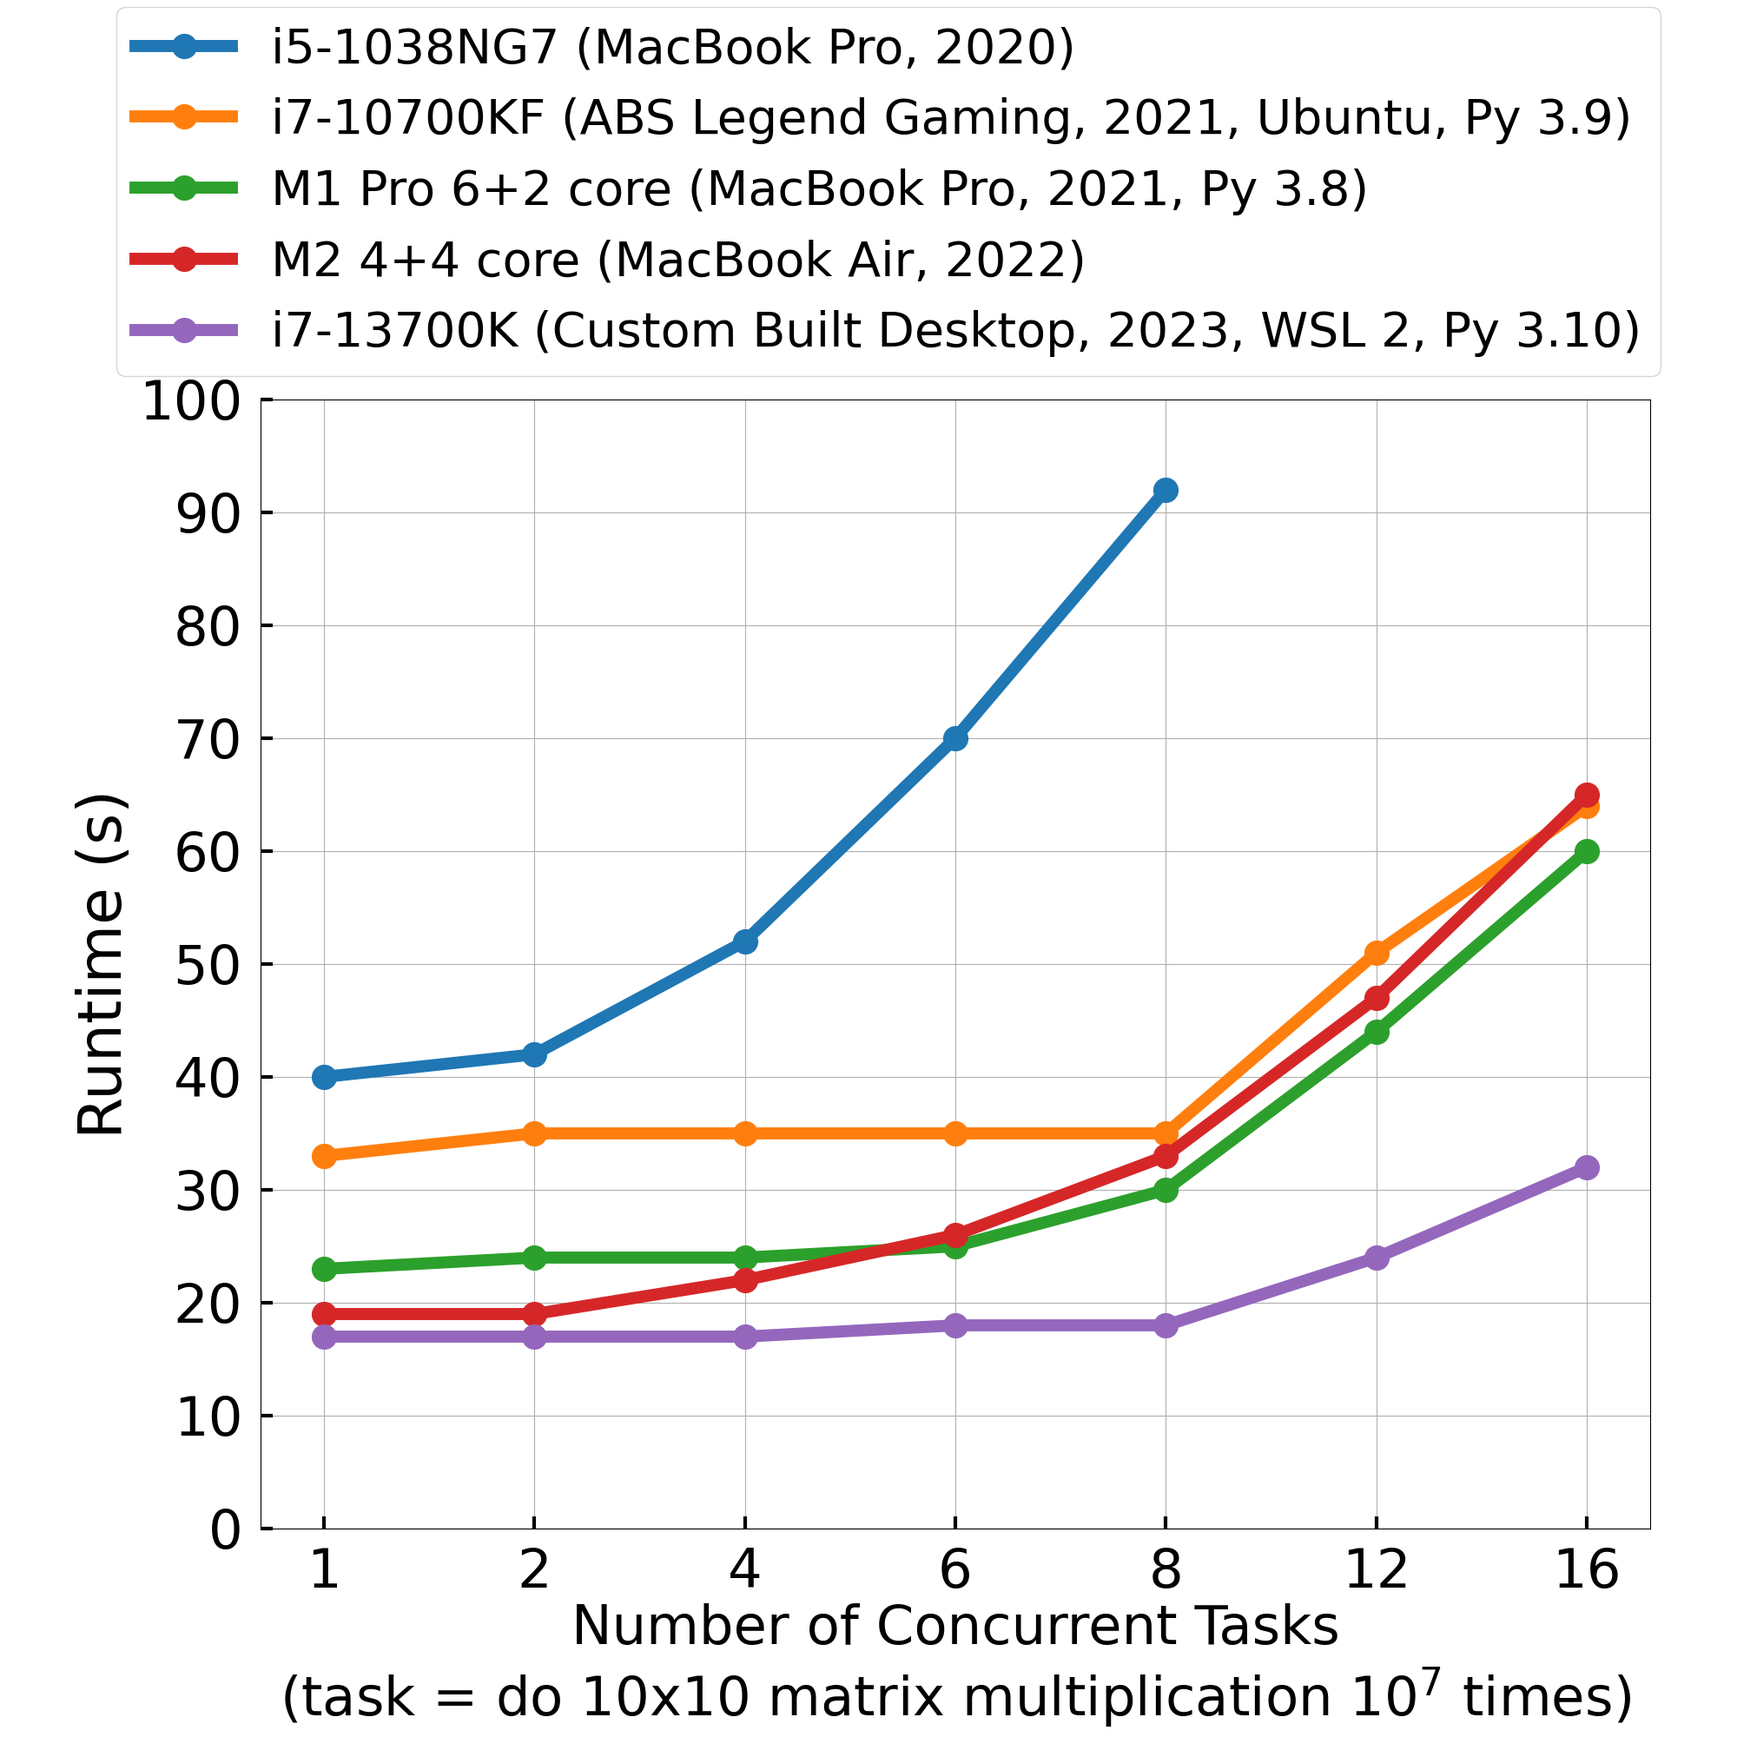
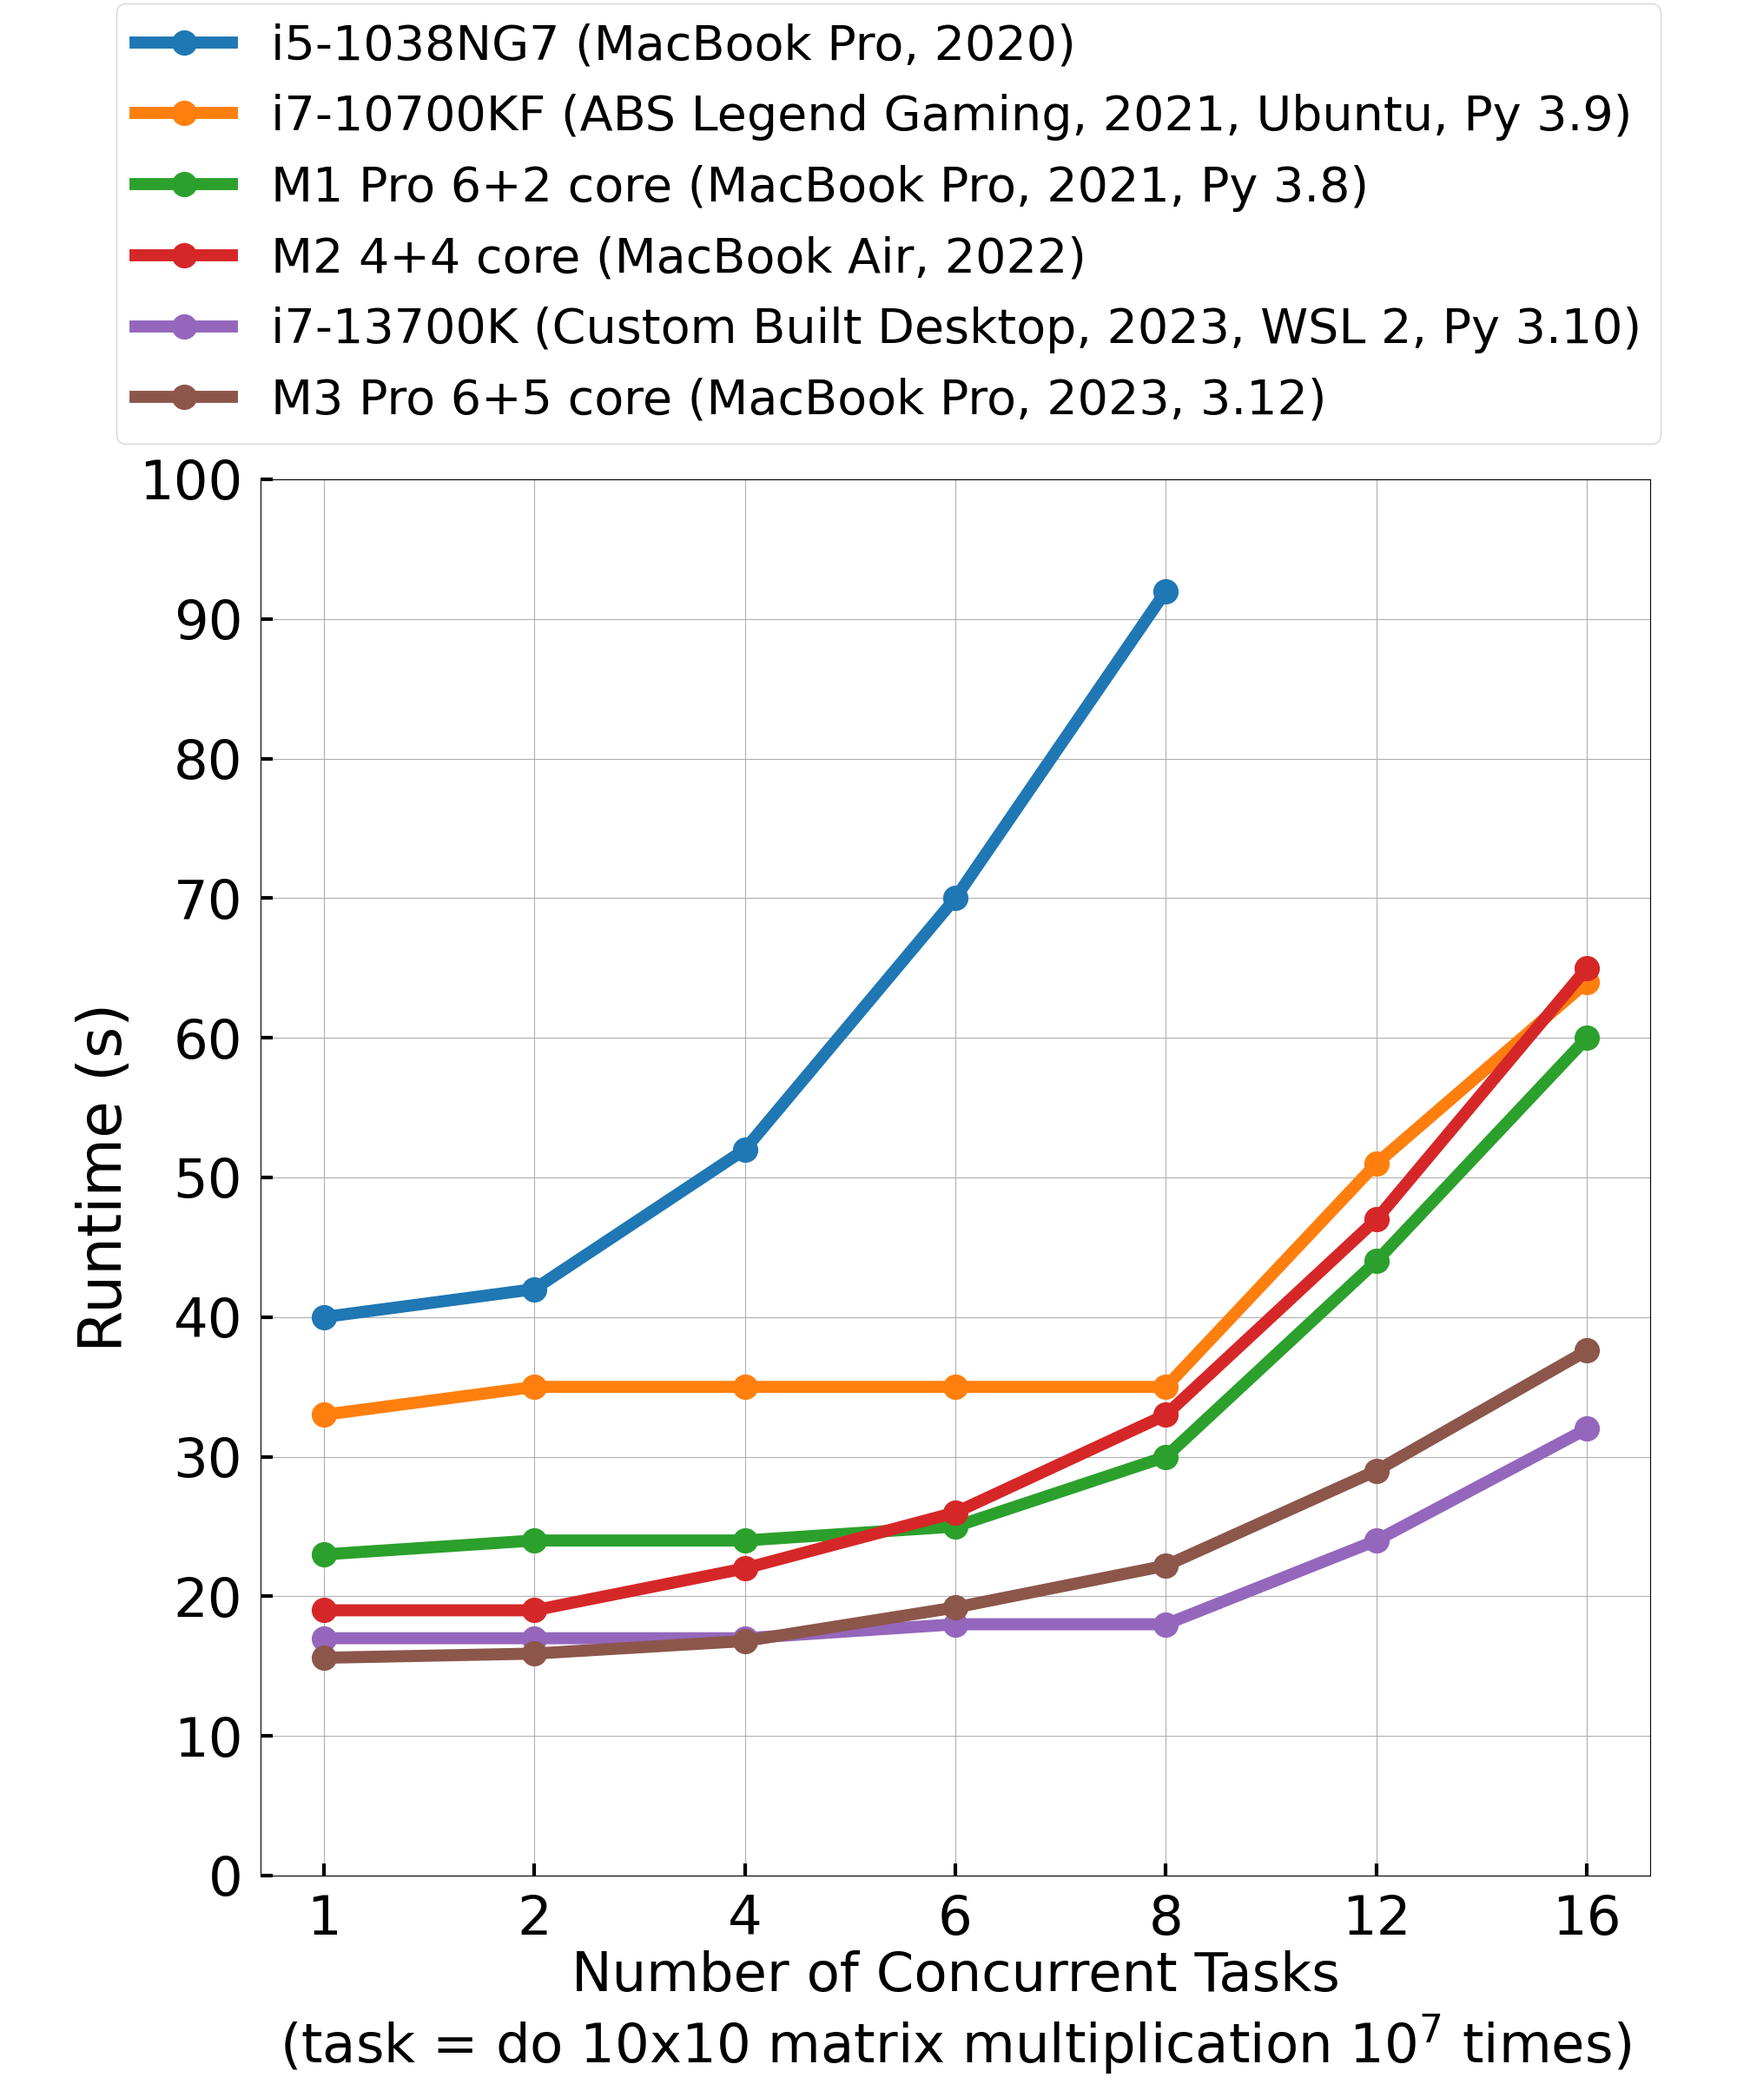
update plots

diff --git a/plot.py b/plot.py
@@ -2,24 +2,26 @@ import matplotlib.pyplot as plt
 import numpy as np
 
 def plot():
-    X  = [1,  2,  4,    6,    8,    12,   16]
-    y1 = [40, 42, 52,   70,   92]                # i5-1038NG7
-    y2 = [44, 44, 54,   83,   121]               # i7-1065G7
-    y3 = [33, 35, 35,   35,   35,   51,   64]    # i7-10700KF
-    y4 = [23, 24, 24,   25,   30,   44,   60]    # M1 Pro (6 + 2)
-    y5 = [19, 19, 22,   26,   33,   47,   65]    # M2 (4 + 4)
-    y6 = [17, 17, 17,   18,   18,   24,   32]    # i7-13700K (8 + 8)
+    X  = [1,    2,    4,    6,    8,    12,   16]
+    y1 = [40,   42,   52,   70,   92]                # i5-1038NG7
+    y2 = [44,   44,   54,   83,   121]               # i7-1065G7
+    y3 = [33,   35,   35,   35,   35,   51,   64]    # i7-10700KF
+    y4 = [23,   24,   24,   25,   30,   44,   60]    # M1 Pro (6 + 2)
+    y5 = [19,   19,   22,   26,   33,   47,   65]    # M2 (4 + 4)
+    y6 = [17,   17,   17,   18,   18,   24,   32]    # i7-13700K (8 + 8)
+    y7 = [15.6, 15.9, 16.8, 19.2, 22.2, 29.0, 37.6]  # M3 Pro (6 + 5)
 
     plt.rcParams['font.size'] = 45
     plt.rcParams['lines.linewidth'] = 10
-    fig, ax = plt.subplots(1, 1, figsize=(20, 20))
-    fig.subplots_adjust(left=0.15, right=0.95, top=0.77, bottom=0.12)
+    fig, ax = plt.subplots(1, 1, figsize=(20, 24))
+    fig.subplots_adjust(left=0.15, right=0.95, top=0.77, bottom=0.1)
     # ax.plot(np.arange(len(y2)), y2, marker='o', markersize=20, label='i7-1065G7 (Microsoft Surface 3 2020)')
     ax.plot(np.arange(len(y1)), y1, marker='o', markersize=20, label='i5-1038NG7 (MacBook Pro, 2020)')
     ax.plot(np.arange(len(y3)), y3, marker='o', markersize=20, label='i7-10700KF (ABS Legend Gaming, 2021, Ubuntu, Py 3.9)')
     ax.plot(np.arange(len(y4)), y4, marker='o', markersize=20, label='M1 Pro 6+2 core (MacBook Pro, 2021, Py 3.8)')
     ax.plot(np.arange(len(y5)), y5, marker='o', markersize=20, label='M2 4+4 core (MacBook Air, 2022)')
     ax.plot(np.arange(len(y6)), y6, marker='o', markersize=20, label='i7-13700K (Custom Built Desktop, 2023, WSL 2, Py 3.10)')
+    ax.plot(np.arange(len(y7)), y7, marker='o', markersize=20, label='M3 Pro 6+5 core (MacBook Pro, 2023, 3.12)')
     fig.legend(ncol=1, fontsize=40, bbox_to_anchor=(0.97, 1.01))
     ax.grid()
     ax.set_xticks(np.arange(len(X)))
